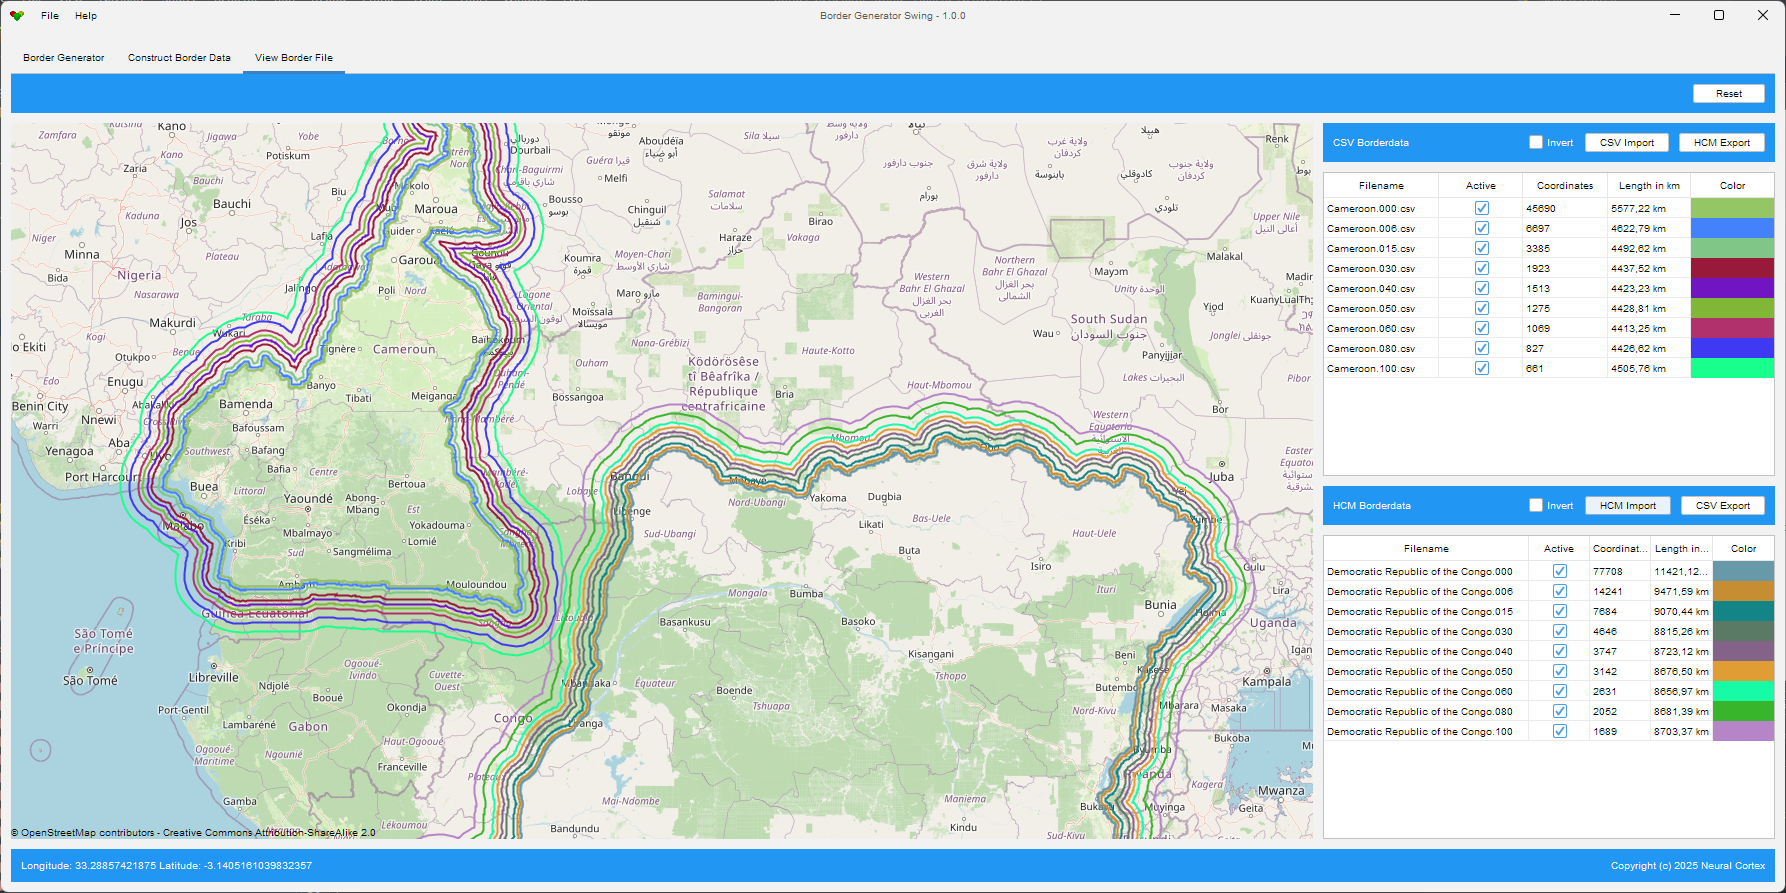
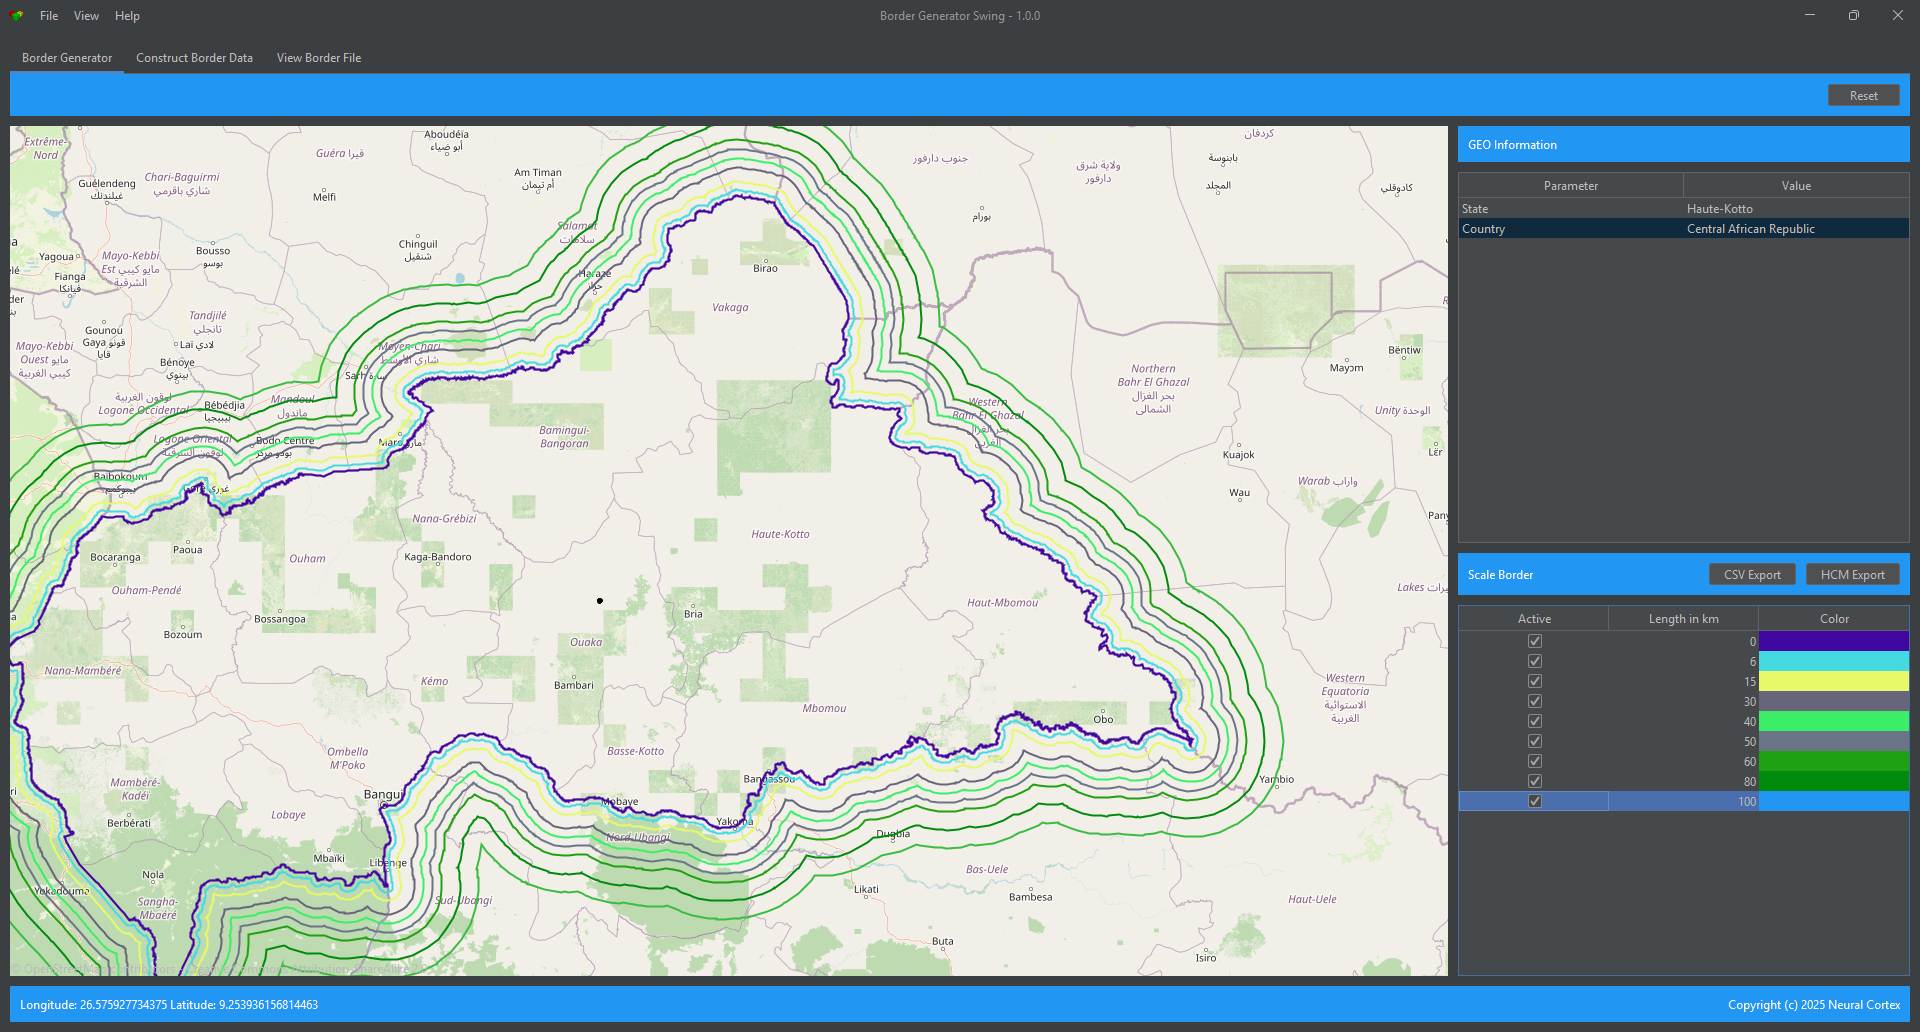
Light and Dark Theme (Dark is default)

diff --git a/src/main/java/com/fx/swing/controller/MainController.java b/src/main/java/com/fx/swing/controller/MainController.java
@@ -1,5 +1,6 @@
 package com.fx.swing.controller;
 
+import com.formdev.flatlaf.FlatLaf;
 import com.fx.swing.Globals;
 import com.fx.swing.controller.tabs.ConstController;
 import com.fx.swing.controller.tabs.MapController;
@@ -11,6 +12,7 @@ import java.awt.event.ActionEvent;
 import java.awt.event.ActionListener;
 import java.text.MessageFormat;
 import java.time.LocalDate;
+import java.util.HashMap;
 import java.util.ResourceBundle;
 import javax.swing.BorderFactory;
 import javax.swing.JFrame;
@@ -21,67 +23,84 @@ import javax.swing.JMenuItem;
 import javax.swing.JOptionPane;
 import javax.swing.JPanel;
 import javax.swing.JTabbedPane;
+import javax.swing.SwingUtilities;
+import javax.swing.UIManager;
 
 public class MainController extends JPanel implements ActionListener {
-
+    
+    private HashMap<String, FlatLaf> lafMap;
     private final JFrame frame;
     private final ResourceBundle bundle;
-
+    
     private JMenuBar menuBar;
+    
     private JMenu menuFile;
+    private JMenu menuView;
     private JMenu menuHelp;
+    
     private JMenuItem miClose;
     private JMenuItem miAbout;
-
+    private JMenuItem miLight;
+    private JMenuItem miDark;
+    
     private JPanel panelStatus;
     private JLabel labelAbout;
     private JLabel labelStatus;
-
+    
     private JTabbedPane tabbedPane;
-
-    public MainController(JFrame frame, ResourceBundle bundle) {
+    
+    public MainController(HashMap<String, FlatLaf> lafMap, JFrame frame, ResourceBundle bundle) {
+        this.lafMap = lafMap;
         this.frame = frame;
         this.bundle = bundle;
-
+        
         init(bundle);
     }
-
+    
     private void init(ResourceBundle bundle) {
         setLayout(new BorderLayout());
         setBorder(BorderFactory.createEmptyBorder(10, 10, 10, 10));
-
+        
         String about = MessageFormat.format(bundle.getString("lb.about"), String.format("%d", LocalDate.now().getYear()));
         labelAbout = new JLabel(about);
         labelStatus = new JLabel("");
-
+        
         panelStatus = LayoutFunctions.createOptionPanelX(Globals.COLOR_BLUE, labelStatus, labelAbout);
         add(panelStatus, BorderLayout.SOUTH);
-
+        
         frame.add(this);
-
+        
         menuBar = new JMenuBar();
-
+        
         menuFile = new JMenu(bundle.getString("menu.file"));
         menuHelp = new JMenu(bundle.getString("menu.help"));
-
+        menuView = new JMenu(bundle.getString("menu.view"));
+        
         miClose = new JMenuItem(bundle.getString("mi.close"));
         miAbout = new JMenuItem(bundle.getString("mi.about"));
-
+        miLight = new JMenuItem(bundle.getString("mi.light"));
+        miDark = new JMenuItem(bundle.getString("mi.dark"));
+        
         miClose.addActionListener(this);
         miAbout.addActionListener(this);
-
+        miLight.addActionListener(this);
+        miDark.addActionListener(this);
+        
         menuFile.add(miClose);
+        menuView.add(miLight);
+        menuView.add(miDark);
         menuHelp.add(miAbout);
-
+        
         menuBar.add(menuFile);
+        menuBar.add(menuView);
         menuBar.add(menuHelp);
-
+        
         frame.setJMenuBar(menuBar);
-
+        
         tabbedPane = new JTabbedPane();
         tabbedPane.setBorder(BorderFactory.createEmptyBorder(0, 0, 10, 0));
         add(tabbedPane, BorderLayout.CENTER);
-
+        
         HelperFunctions.addTab(tabbedPane, new MapController(this), bundle.getString("tab.border"));
         HelperFunctions.addTab(tabbedPane, new ConstController(this), bundle.getString("tab.const"));
         HelperFunctions.addTab(tabbedPane, new ResultController(this), bundle.getString("tab.result"));
@@ -92,10 +111,10 @@ public class MainController extends JPanel implements ActionListener {
             ((PopulateInterface) pane.getSelectedComponent()).reset();
             ((PopulateInterface) pane.getSelectedComponent()).populate();
         });
-
+        
         tabbedPane.setSelectedIndex(0);
     }
-
+    
     @Override
     public void actionPerformed(ActionEvent e) {
         if (e.getSource() instanceof JMenuItem) {
@@ -105,22 +124,39 @@ public class MainController extends JPanel implements ActionListener {
             if (e.getSource() == miAbout) {
                 showAboutDlg();
             }
+            if (e.getSource() == miLight) {
+                switchLaf(Globals.THEME_LIGHT);
+            }
+            if (e.getSource() == miDark) {
+                switchLaf(Globals.THEME_DARK);
+            }
         }
     }
-
+    
+    private void switchLaf(String laf) {
+        try {
+            UIManager.setLookAndFeel(lafMap.get(laf));
+            SwingUtilities.updateComponentTreeUI(frame);
+            Globals.propman.put(Globals.THEME, laf);
+            Globals.propman.save();
+        } catch (Exception ex) {
+            ex.printStackTrace();
+        }
+    }
+    
     private void showAboutDlg() {
         String about = MessageFormat.format(bundle.getString("lb.about"), String.format("%d", LocalDate.now().getYear()));
         JOptionPane.showMessageDialog(frame, about, bundle.getString("lb.info"), JOptionPane.INFORMATION_MESSAGE);
     }
-
+    
     public ResourceBundle getBundle() {
         return bundle;
     }
-
+    
     public JFrame getFrame() {
         return frame;
     }
-
+    
     public JLabel getLabelStatus() {
         return labelStatus;
     }

diff --git a/src/main/java/com/fx/swing/MainApp.java b/src/main/java/com/fx/swing/MainApp.java
@@ -1,9 +1,12 @@
 package com.fx.swing;
 
+import com.formdev.flatlaf.FlatLaf;
 import com.fx.swing.controller.MainController;
-import com.fx.swing.themes.ThemeFX;
+import com.fx.swing.themes.ThemeFX_Dark;
+import com.fx.swing.themes.ThemeFX_Light;
 import com.fx.swing.tools.HelperFunctions;
 import java.io.File;
+import java.util.HashMap;
 import java.util.ResourceBundle;
 import javax.swing.ImageIcon;
 import javax.swing.JFrame;
@@ -16,6 +19,7 @@ public class MainApp {
 
     private static final Logger _log = LogManager.getLogger(MainApp.class);
     private final ResourceBundle bundle = ResourceBundle.getBundle(Globals.BUNDLE_PATH, Globals.DEFAULT_LOCALE);
+    private final HashMap<String, FlatLaf> lafMap = new HashMap<>();
 
     public static void main(String[] args) {
         MainApp mainApp = new MainApp();
@@ -24,9 +28,13 @@ public class MainApp {
 
     private void init() {
         initLogger(Globals.LOG4J2_CONFIG_PATH);
-        ThemeFX.setup();
+        ThemeFX_Dark.setup();
+
+        lafMap.put(Globals.THEME_LIGHT, new ThemeFX_Light());
+        lafMap.put(Globals.THEME_DARK, new ThemeFX_Dark());
+
         try {
-            UIManager.setLookAndFeel(new ThemeFX());
+            UIManager.setLookAndFeel(lafMap.get(Globals.propman.getProperty(Globals.THEME, Globals.THEME_DARK)));
         } catch (Exception ex) {
             _log.error(ex.getMessage());
         }
@@ -36,7 +44,7 @@ public class MainApp {
         frame.setDefaultCloseOperation(JFrame.EXIT_ON_CLOSE);
         frame.setSize(Globals.WIDTH, Globals.HEIGHT);
 
-        MainController mainController = new MainController(frame, bundle);
+        MainController mainController = new MainController(lafMap, frame, bundle);
 
         HelperFunctions.centerWindow(frame);
 

diff --git a/src/main/java/com/fx/swing/Globals.java b/src/main/java/com/fx/swing/Globals.java
@@ -13,13 +13,13 @@ public class Globals {
 
     public static final boolean MAXIMIZED = false;
 
-     //WGS84 SRID
+    //WGS84 SRID
     public static int WGS84_SRID = 4326;
-    
+
     public static final Locale DEFAULT_LOCALE = Locale.US;
     public static ByteOrder BYTE_ORDER = ByteOrder.LITTLE_ENDIAN;
-    public static final String DIR_HCM_INPUT="DIR_HCM_INPUT"; 
-    public static final String DIR_CSV_INPUT="DIR_CSV_INPUT"; 
+    public static final String DIR_HCM_INPUT = "DIR_HCM_INPUT";
+    public static final String DIR_CSV_INPUT = "DIR_CSV_INPUT";
 
     public static final String BUNDLE_PATH = "com.fx.swing.bundle.swing";
     public static final String LOG4J2_CONFIG_PATH = System.getProperty("user.dir") + "/config/log4j2.xml";
@@ -39,4 +39,9 @@ public class Globals {
     //Colors
     public static final Color COLOR_BLUE = HelperFunctions.getColorFromHex("#2196F3");
     public static final Color COLOR_INDIGO = HelperFunctions.getColorFromHex("#3f51b5");
+
+    //Properties
+    public static final String THEME = "THEME";
+    public static final String THEME_DARK = "THEME_DARK";
+    public static final String THEME_LIGHT = "THEME_LIGHT";
 }

diff --git a/src/main/java/com/fx/swing/themes/ThemeFX_Light.java b/src/main/java/com/fx/swing/themes/ThemeFX_Light.java
@@ -1,0 +1,21 @@
+package com.fx.swing.themes;
+
+import com.formdev.flatlaf.FlatLightLaf;
+
+public class ThemeFX_Light extends FlatLightLaf {
+
+    public static final String NAME = "ThemeFX";
+
+    public static boolean setup() {
+        return setup(new ThemeFX_Light());
+    }
+
+    public static void installLafInfo() {
+        installLafInfo(NAME, ThemeFX_Light.class);
+    }
+
+    @Override
+    public String getName() {
+        return NAME;
+    }
+}

diff --git a/src/main/java/com/fx/swing/themes/ThemeFX_Dark.java b/src/main/java/com/fx/swing/themes/ThemeFX_Dark.java
@@ -1,0 +1,21 @@
+package com.fx.swing.themes;
+
+import com.formdev.flatlaf.FlatDarkLaf;
+
+public class ThemeFX_Dark extends FlatDarkLaf {
+
+    public static final String NAME = "ThemeFX";
+
+    public static boolean setup() {
+        return setup(new ThemeFX_Dark());
+    }
+
+    public static void installLafInfo() {
+        installLafInfo(NAME, ThemeFX_Dark.class);
+    }
+
+    @Override
+    public String getName() {
+        return NAME;
+    }
+}
